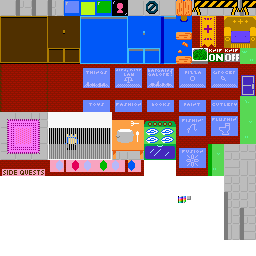
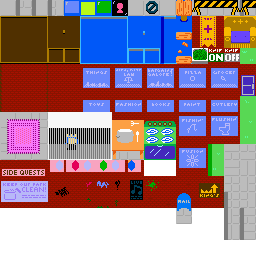
grafitti etc

Changed region(s): [[0.0, 0.6875, 0.875, 0.875]]

diff --git a/README.md b/README.md
@@ -34,13 +34,14 @@ Some items will have a count: Pepper, Bomb, Candy.
 - [x] Pre-boss-fight cutscene?
 - [x] Post-boss-fight cutscene? ...NO
 - [x] NPCs with helpful dialogue.
-- [ ] Proper graphics.
+- [x] Proper graphics.
 - - Keep the existing graphics, I like it.
 - - Decorate the world until we run out of tilesheet.
+- - ...about 3 rows still empty, but i'm feeling done.
 - [ ] Sometimes face direction doesn't update after dropping the broom. Usually happens to me at the map right after acquiring broom.
 - [ ] There's a bug somewhere in collision detection that lets you pass thru solid sprites sometimes when also colliding against the map. Ignoring it for now.
-- [ ] Errata.
-- - [ ] Itch page.
+- [x] Errata.
+- - [x] Itch page.
 
 ## Agenda
 
@@ -50,7 +51,7 @@ Some items will have a count: Pepper, Bomb, Candy.
 - [x] 2025-06-01 EOD   U Sprites and items.
 - [x] 2025-06-06 EOD   F Rough world layout.
 - [x] 2025-06-07 EOD   S Sound effects.
-- [ ] 2025-06-08 EOD   U Music, final graphics.
+- [x] 2025-06-08 EOD   U Music, final graphics.
 - [ ] 2025-06-13 EOD   F Polished and ready to go.
 - [ ] 2025-06-14 EOD   S '' panic if not.
 - [ ] 2025-06-15 EOD   U Have everything finished and submitted.
